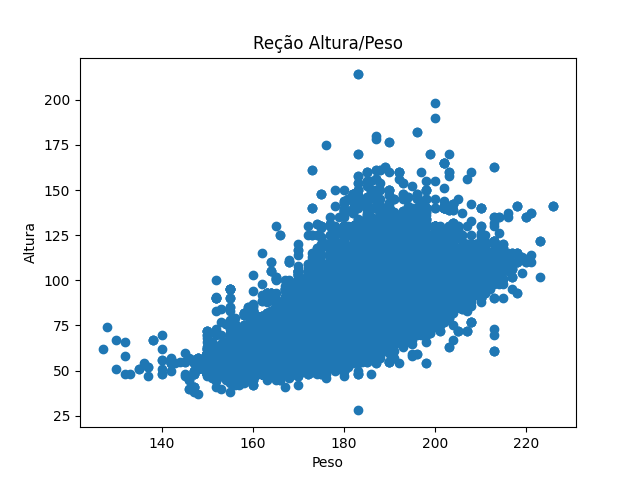
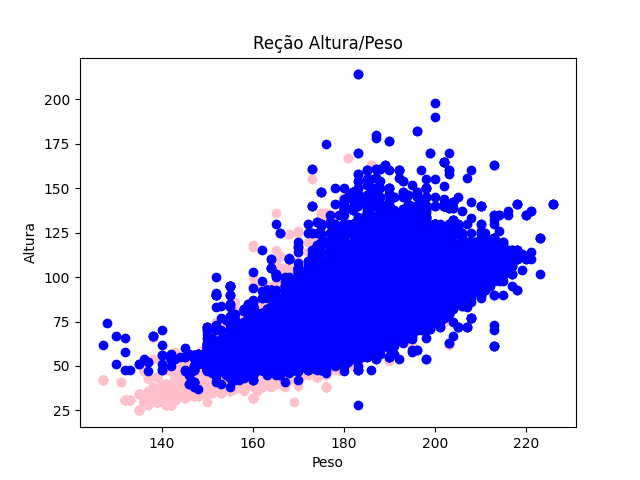
Atualização comparativo com mulheres

diff --git a/home.py b/home.py
@@ -5,13 +5,18 @@ import matplotlib.pyplot as plt
 dados = pd.read_csv('C:\\Users\\Rodrigues\\Desktop\\BRANCH-TESTE\\athlete_events.csv')
 
 masculinos = dados.loc[dados['Sex']=='M']
+femininos = dados.loc[dados['Sex']=='F']
 
-altura = masculinos['Height']
-peso = masculinos['Weight']
+alturaM = masculinos['Height']
+pesoM = masculinos['Weight']
+
+alturaF = femininos['Height']
+pesoF = femininos['Weight']
 
 plt.title('Reção Altura/Peso')
 plt.ylabel('Altura')
 plt.xlabel('Peso')
-plt.scatter(altura, peso)
+plt.scatter(alturaF, pesoF, color="pink")
+plt.scatter(alturaM, pesoM, color="blue")
 plt.savefig('grafico_linha.png', format='png')
 plt.show()
